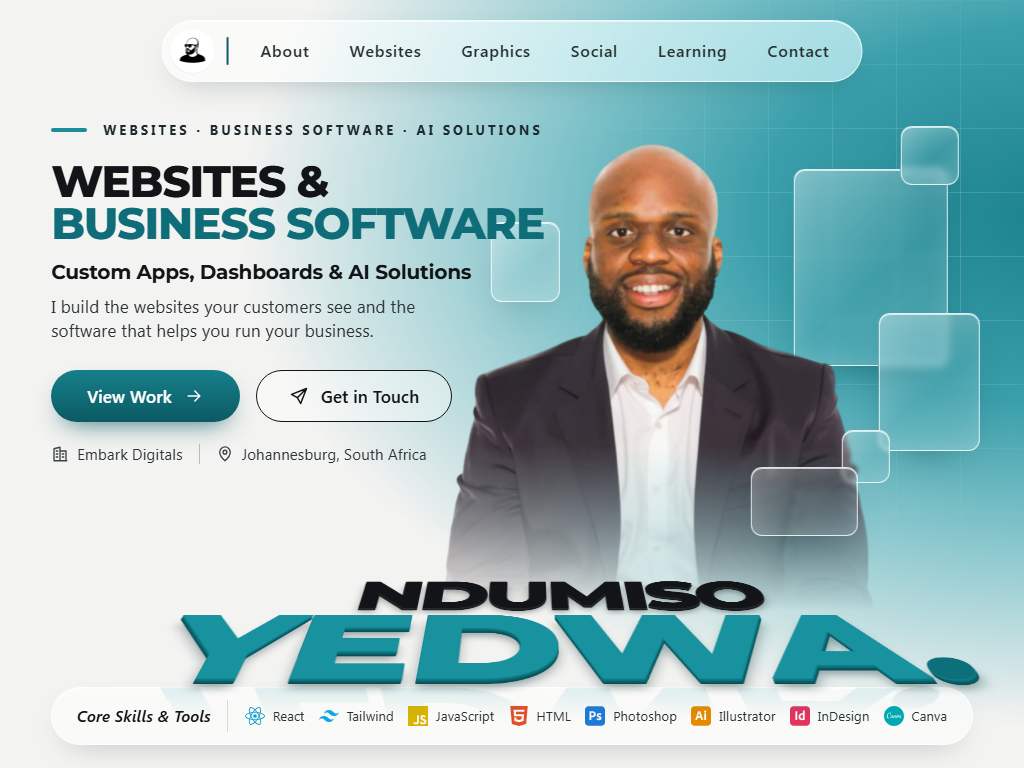
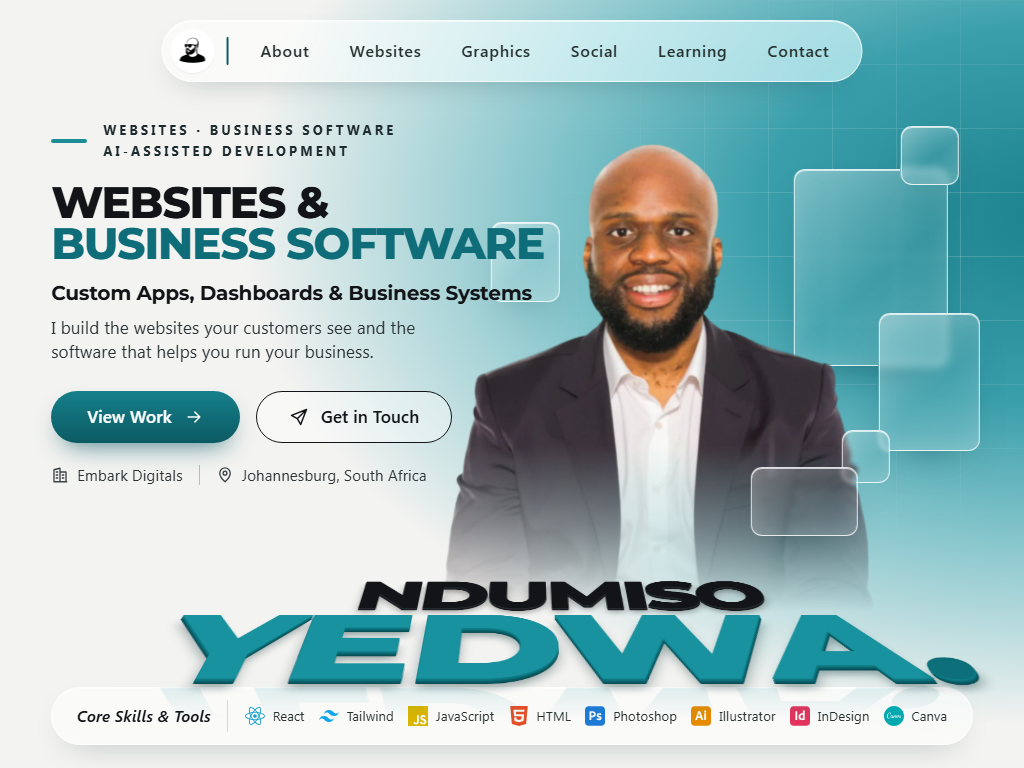
Correct AI wording, add software service, update link previews
- Hero: "AI Solutions" becomes "AI-Assisted Development" (eyebrow) and
  "Business Systems" (service line); neither software project has AI
  features.
- What I do: add "Business Software & Dashboards" as service 02
  (copy-review row 5); four columns on wide screens.
- index.html: title, description, og and twitter tags now cover
  websites and business software (copy-review row 6).

Changed region(s): [[0.0312, 0.1875, 0.5312, 0.625], [0.4062, 0.1562, 0.5312, 0.1875], [0.0312, 0.1562, 0.0938, 0.1875]]

diff --git a/index.html b/index.html
@@ -5,26 +5,26 @@
     <meta name="viewport" content="width=device-width, initial-scale=1.0" />
 
     <!-- Primary Meta Tags -->
-    <title>Ndumiso Yedwa — Front-End Developer & Founder of Embark Digitals</title>
-    <meta name="title" content="Ndumiso Yedwa — Front-End Developer & Founder of Embark Digitals" />
-    <meta name="description" content="I build fast, brand-true websites with React, Vite, and Tailwind, turning business goals into clear UI, accessible UX, and measurable outcomes." />
+    <title>Ndumiso Yedwa — Websites & Business Software | Embark Digitals</title>
+    <meta name="title" content="Ndumiso Yedwa — Websites & Business Software | Embark Digitals" />
+    <meta name="description" content="Ndumiso Yedwa builds websites, custom business software and dashboards for South African businesses and organisations. Founder of Embark Digitals." />
     <meta name="author" content="Ndumiso Yedwa" />
     <meta name="keywords" content="Front-End Developer, React Developer, Web Designer, Tailwind CSS, Vite, Embark Digitals, Ndumiso Yedwa, Portfolio" />
 
     <!-- Open Graph / Facebook -->
     <meta property="og:type" content="website" />
     <meta property="og:url" content="https://ndumiso-y.github.io/" />
-    <meta property="og:title" content="Ndumiso Yedwa — Front-End Developer & Founder of Embark Digitals" />
-    <meta property="og:description" content="I build fast, brand-true websites with React, Vite, and Tailwind, turning business goals into clear UI, accessible UX, and measurable outcomes." />
+    <meta property="og:title" content="Ndumiso Yedwa — Websites & Business Software | Embark Digitals" />
+    <meta property="og:description" content="Ndumiso Yedwa builds websites, custom business software and dashboards for South African businesses and organisations. Founder of Embark Digitals." />
     <meta property="og:image" content="https://ndumiso-y.github.io/assets/ndu-portrait.jpg" />
-    <meta property="og:image:alt" content="Ndumiso Yedwa - Front-End Developer" />
+    <meta property="og:image:alt" content="Ndumiso Yedwa, web and business software developer" />
     <meta property="og:site_name" content="Ndumiso Yedwa Portfolio" />
 
     <!-- Twitter -->
     <meta name="twitter:card" content="summary_large_image" />
     <meta name="twitter:url" content="https://ndumiso-y.github.io/" />
-    <meta name="twitter:title" content="Ndumiso Yedwa — Front-End Developer & Founder of Embark Digitals" />
-    <meta name="twitter:description" content="I build fast, brand-true websites with React, Vite, and Tailwind, turning business goals into clear UI, accessible UX, and measurable outcomes." />
+    <meta name="twitter:title" content="Ndumiso Yedwa — Websites & Business Software | Embark Digitals" />
+    <meta name="twitter:description" content="Ndumiso Yedwa builds websites, custom business software and dashboards for South African businesses and organisations. Founder of Embark Digitals." />
     <meta name="twitter:image" content="https://ndumiso-y.github.io/assets/ndu-portrait.jpg" />
 
     <!-- Canonical URL -->

diff --git a/src/features/modern/HeroModern.jsx b/src/features/modern/HeroModern.jsx
@@ -21,6 +21,10 @@ const services = [
     description: 'I design and build fast, modern websites that look sharp and convert visitors into clients.'
   },
   {
+    title: 'Business Software & Dashboards',
+    description: 'Custom apps that bring quotations, records, approvals, tasks and reports into one place.'
+  },
+  {
     title: 'Branding & Graphics',
     description: 'Logos, marketing visuals, and digital assets that keep your brand consistent and memorable.'
   },
@@ -133,7 +137,7 @@ export default function HeroModern() {
           <div className="lg:max-w-[54%]">
             <p className="flex items-start sm:items-center gap-3 sm:gap-4 text-[12px] sm:text-[13px] xl:text-[14px] font-bold tracking-[0.2em] sm:tracking-[0.24em] uppercase text-[#1d2a2e]">
               <span className="block w-9 xl:w-12 h-[4px] mt-[6px] sm:mt-0 bg-[#1c8c97] rounded-full flex-none" aria-hidden="true" />
-              <span>Websites · Business<span className="sm:hidden"><br /></span><span className="hidden sm:inline"> </span>Software · AI Solutions</span>
+              <span>Websites · Business Software<span className="xl:hidden"><br /></span><span className="hidden xl:inline"> · </span>AI-Assisted Development</span>
             </p>
 
             <h1 className="hero-display mt-4 lg:mt-5 uppercase leading-[0.95] tracking-[-0.03em] text-[clamp(40px,11.4vw,64px)] lg:text-[clamp(42px,4.3vw,80px)]">
@@ -143,7 +147,7 @@ export default function HeroModern() {
             </h1>
 
             <p className="hero-display mt-3 lg:mt-4 text-[20px] sm:text-[22px] lg:text-[clamp(20px,1.9vw,32px)] leading-tight tracking-[-0.01em] text-[#121417]" style={{ fontWeight: 700 }}>
-              Custom Apps, Dashboards &amp; AI&nbsp;Solutions
+              Custom Apps, Dashboards &amp; Business&nbsp;Systems
             </p>
             <p className="mt-2.5 max-w-[38ch] sm:max-w-[44ch] text-[16px] sm:text-[18px] lg:text-[clamp(17px,1.45vw,23px)] leading-snug text-[#2b3336]">
               I build the websites your customers see and the software that helps you run your business.
@@ -227,7 +231,7 @@ export default function HeroModern() {
               ))}
             </ul>
           </div>
-          <ol className="grid gap-8 sm:grid-cols-3 sm:gap-8">
+          <ol className="grid gap-8 sm:grid-cols-2 xl:grid-cols-4 sm:gap-x-8 sm:gap-y-10">
             {services.map((s, i) => (
               <li key={s.title} className="border-t-2 border-[#121417] pt-5">
                 <span className="hero-display text-[#0e5c66] text-[28px]">0{i + 1}</span>

diff --git a/docs/redesign-qa/hero-final/GATE2_REPORT.md b/docs/redesign-qa/hero-final/GATE2_REPORT.md
@@ -40,11 +40,22 @@ Copy exactly as `COPY_LOCK.md`. The h1 reads "Ndumiso Yedwa: Websites & Business
 5. **Teal** is slightly lighter than the mock-up's glow-heavy render; kept within the existing palette.
 6. **Removed from the hero (no loss):** the four section shortcut cards (duplicated the nav; images remain in their sections), the ndu-icon watermark (still in nav, Websites, Social, Contact), the QR panel (moved to Contact), the old eyebrow "Web Designer & Front-End Developer" and tagline (replaced by the locked copy; same message remains in About and Contact).
 
-## Flags for the owner
-- **"AI Solutions"** appears in the eyebrow and service line as approved in the visual. Neither software project contains AI features; keep any AI project claim out of the portfolio until there is real AI work to show (COPY_LOCK note).
-- **"What I do" band** still lists three services without software (row 5 of the copy review, deferred to this review). Not changed here.
-- **Meta description** still says websites only (row 6, needs owner authorisation). Not changed.
-- `src/content/hero.json` still holds the old hero copy; it is not rendered. Not changed.
+## Owner follow-up changes (17 Nov 2026, on this PR)
+The owner asked to correct the AI wording, add software to "What I do" and fix the link-preview text:
+1. **AI wording.** COPY_LOCK's "AI Solutions" was replaced, because neither software project contains AI features (the review's rule: "AI-assisted development", never an AI product claim).
+   - Eyebrow: "Websites · Business Software · AI-Assisted Development". Below 1280 px it breaks after "Business Software".
+   - Service line: "Custom Apps, Dashboards & Business Systems", matching the Contact sentence.
+2. **"What I do"** (copy-review row 5):
+   - New service 02, "Business Software & Dashboards — Custom apps that bring quotations, records, approvals, tasks and reports into one place." (ChatGPT's wording).
+   - Layout: 4 columns at ≥1280 px, 2 at tablet, stacked on phone. The other three services are unchanged, renumbered 01/03/04.
+3. **Link previews** for Google, WhatsApp, LinkedIn and X (copy-review row 6, `index.html`):
+   - Title: "Ndumiso Yedwa — Websites & Business Software | Embark Digitals" (62 characters).
+   - Description: "Ndumiso Yedwa builds websites, custom business software and dashboards for South African businesses and organisations. Founder of Embark Digitals." (146 characters).
+   - Applied to the description, title, og: and twitter: tags. The og:image alt is updated. The image and URLs are unchanged.
+
+## Still open
+- `src/content/hero.json` still holds the old hero copy; it is not rendered.
+- Proof cards for the software work (row 8) need design approval and client permission.
 
 ## Next
 Owner Gate 2 decision → Gate 3 motion audit per `MOTION_SPEC.md` (glass drift, one sheen, soft entrance, reduced-motion) → merge/deploy only after owner sign-off.
